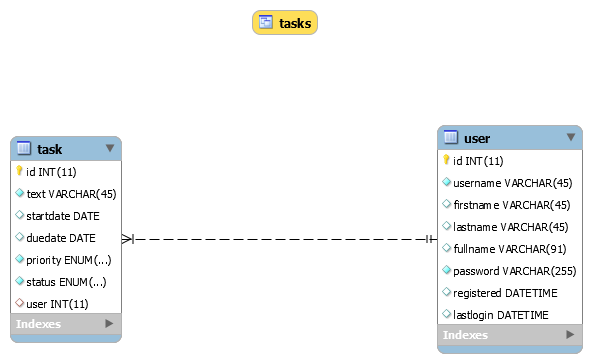
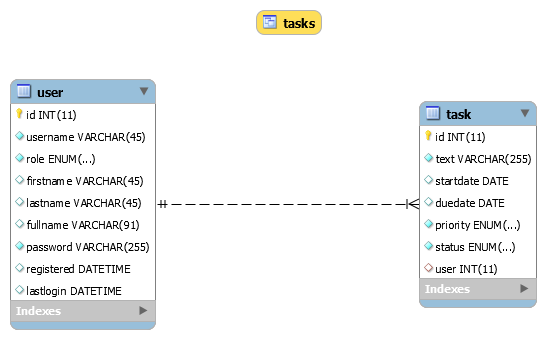
add support for both database designs

Changed region(s): [[0.0, 0.236, 0.9963, 1.0], [0.4048, 0.0295, 0.5916, 0.118]]

diff --git a/todo-api/routes/task.js b/todo-api/routes/task.js
@@ -5,48 +5,83 @@ const knexconf = require('../knexconf')
 const knex = require('knex')(knexconf)
 const auth = require('../auth');
 
+async function getNumberOfTables() {
+  return await knex.raw('SHOW TABLES')
+    .then(results => results[0].length)
+}
+async function getForeignKey(table, value) {
+  return await knex(table)
+    .where(table, value)
+    .then(data => data[0].id)
+}
+async function getEnunValues(field) {
+  var results = await knex.raw(`SHOW COLUMNS FROM task LIKE "${field}"`)
+  results = results[0][0].Type.replace(/enum|\(|\)|\'/g,'').split(',')
+  return results.map((element,index) => {
+    var obj = {}
+    obj['id'] = index
+    obj[field] = element
+    return obj
+  }); 
+}
+
 // read view tasks
 task.get('/task', auth.isLoggedIn, async (req, res) =>{
-  let results = await knex('tasks')
+  var results = await knex('tasks')
   res.json(results)
 })
 
 // read tasks assigned to a certain user
 task.get('/task/getByUser/:kuser', auth.isLoggedIn, async (req, res) =>{
-  let results = await knex('tasks')
-                        .where('kuser', req.params.kuser)
+  var results
+  var user = await knex('user')
+    .where('id', req.params.kuser)
+    .then(data => data[0])
+  if (user && user.role === 'admin') {
+    results = await knex('tasks')
+  } else {
+    results = await knex('tasks')
+      .where('kuser', req.params.kuser)
+  }
   res.json(results)
 })
 
 // create a task via view tasks
 task.post('/task', auth.isLoggedIn, async (req, res) =>{
+  var text = req.body.text
+  var startdate = req.body.startdate
+  var duedate = req.body.duedate
+  var user = req.body.kuser
+  var priority = req.body.priority
+  var status = req.body.status
+  if (await getNumberOfTables() > 3) {
+    priority = await getForeignKey('priority', req.body.priority)
+    status = await getForeignKey('status', req.body.status)
+  }
   try {
-    let results = await knex('tasks')
-                        .insert({
-                          text: req.body.text,
-                          startdate: req.body.startdate,
-                          duedate: req.body.duedate,
-                          priority: req.body.priority, 
-                          status: req.body.status, 
-                          kuser: req.body.kuser
-                        })
+    var results = await knex('task')
+                        .insert({text, startdate, duedate, priority, status, user})
     res.json(results)
   } catch (err) {
-    res.status(200).json(err)
+    res.status(500).json(err)
   }
 })
 
 // update a task via view tasks
 task.put('/task/:id', auth.isLoggedIn, async (req, res) =>{
+  var text = req.body.text
+  var startdate = req.body.startdate
+  var duedate = req.body.duedate
+  var user = req.body.kuser
+  var priority = req.body.priority
+  var status = req.body.status
+  if (await getNumberOfTables() > 3) {
+    priority = await getForeignKey('priority', req.body.priority)
+    status = await getForeignKey('status', req.body.status)
+  }
   try {
-    let results = await knex('tasks')
-                        .update({
-                          text: req.body.text,
-                          startdate: req.body.startdate,
-                          duedate: req.body.duedate,
-                          priority: req.body.priority,
-                          status: req.body.status, 
-                          kuser: req.body.kuser})
+    var results = await knex('task')
+                        .update({text, startdate, duedate, priority, status, user})
                         .where('id', req.params.id)
     res.json(results)
   } catch (err) {
@@ -56,29 +91,33 @@ task.put('/task/:id', auth.isLoggedIn, async (req, res) =>{
 
 // delete task in table task
 task.delete('/task/:id', auth.isLoggedIn, async (req, res) =>{
-  let results = await knex('task')
+  var results = await knex('task')
                       .where('id', req.params.id)
                       .del()
   res.json(results)
 })
 
-// read the  priorities
+// read the priorities
 task.get('/task/priority', auth.isLoggedIn, async (req, res) =>{
-  let results = await knex.raw('SHOW COLUMNS FROM task LIKE "priority"')
-  results = results[0][0].Type.replace(/enum|\(|\)|\'/g,'').split(',')
-  results = results.map((element,index) => {
-    return {"id":index, "priority":element}
-  });
+  var results 
+  var n = await getNumberOfTables()
+  if (n === 3) { // design with 2 tables and 1 view
+    results = await getEnunValues('priority')
+  } else if (n > 3) {
+    results = await knex('priority')
+  }
   res.json(results)
 })
 
 // read the states
 task.get('/task/state', auth.isLoggedIn, async (req, res) =>{
-  let results = await knex.raw('SHOW COLUMNS FROM task LIKE "status"')
-  results = results[0][0].Type.replace(/enum|\(|\)|\'/g,'').split(',')
-  results = results.map((element,index) => {
-    return {"id":index, "state":element}
-  });
+  var results 
+  var n = await getNumberOfTables()
+  if (n === 3) { // design with 2 tables and 1 view
+    results = await getEnunValues('status')
+  } else if (n > 3) {
+    results = await knex('status')
+  }
   res.json(results)
 })
 

diff --git a/todo-gui/src/views/Tasks.vue b/todo-gui/src/views/Tasks.vue
@@ -24,7 +24,7 @@
                       <v-text-field v-model="editedItem.duedate" label="Fälligkeit"></v-text-field>
                       <v-select :items="priorities" item-text="priority" v-model="editedItem.priority" label="Priorität"> </v-select>
                       <v-select :items="owners" item-text="fullname" v-model="editedItem.userfull" label="Besitzer"> </v-select>
-                      <v-select :items="states" item-text="state" v-model="editedItem.status" label="Status"> </v-select>
+                      <v-select :items="states" item-text="status" v-model="editedItem.status" label="Status"> </v-select>
                     </v-col>
                   </v-row>
                 </v-container>
@@ -121,13 +121,8 @@ export default {
                               .then(results => results.data)
       this.currentUser = this.owners.find(data => data.username === this.username)
       if (this.currentUser !== undefined) {
-        if (this.username === 'admin') {
-          this.records = await axios.get('/api/task')
+        this.records = await axios.get(`/api/task/getByUser/${this.currentUser.id}`)
                                   .then(results => results.data)
-        } else { //normal user
-          this.records = await axios.get(`/api/task/getByUser/${this.currentUser.id}`)
-                                  .then(results => results.data)
-        }
       }
     },
     toggleItem (item) {
@@ -168,7 +163,7 @@ export default {
           } else {
             // remove item from this view because it now belongs to a different user
             this.records.splice(this.editedIndex, 1)
-            alert('Aufgabe wurde ' + this.editedItem.userfull + 'zugewiesen.')
+            alert('Aufgabe wurde ' + this.editedItem.userfull + ' zugewiesen.')
           }
         } else alert(data.sqlMessage)
       } else { // create
@@ -176,7 +171,7 @@ export default {
                               .then(results => results.data[0])
         if (this.currentUser.fullname === this.editedItem.userfull) {
           this.records.push(this.editedItem)
-        } else {alert('Aufgabe wurde ' + this.editedItem.userfull + 'zugewiesen.')}
+        } else {alert('Aufgabe wurde ' + this.editedItem.userfull + ' zugewiesen.')}
       }
       this.close()
     },

diff --git a/todo-gui/src/App.vue b/todo-gui/src/App.vue
@@ -22,8 +22,8 @@
         <v-col align="center" justify="center">
         <div id="nav" style="margin-top:12px">
           <router-link class="router-link" to="/">Home</router-link><span v-if="isAuth"> | </span>
-          <router-link class="router-link" v-if="isAuth" to="/tasks">Tasks</router-link><span v-if="isAuth && username === 'admin'"> | </span>
-          <router-link class="router-link" v-if="isAuth && username === 'admin'" to="/users">Users</router-link>
+          <router-link class="router-link" v-if="isAuth" to="/tasks">Tasks</router-link><span v-if="isAuth && role === 'admin'"> | </span>
+          <router-link class="router-link" v-if="isAuth && role === 'admin'" to="/users">Users</router-link>
         </div>
         </v-col>
         <v-col align="right" justify="right">
@@ -68,7 +68,8 @@ export default {
     return {
         isAuth: '',
         username: '',
-        fullname: ''
+        fullname: '',
+        role: ''
     }
   },
   mounted() {
@@ -82,6 +83,7 @@ export default {
       this.isAuth = this.$store.getters.isLoggedIn
       if (this.isAuth) {
         this.username = this.$store.getters.getUser.username;
+        this.role = this.$store.getters.getUser.role;
         this.fullname = this.$store.getters.getUser.fullname;
       }
     },

diff --git a/todo-gui/src/views/Profile.vue b/todo-gui/src/views/Profile.vue
@@ -13,6 +13,7 @@
         <tbody>
             <tr><td>Benutzername:</td><td colspan=2>{{ username }}</td></tr>
             <tr><td>Name:</td><td colspan=2>{{ name }}</td></tr>
+            <tr><td>Rolle:</td><td colspan=2>{{ role }}</td></tr>
             <tr><td>Benutzer ID:</td><td colspan=2>{{ id }}</td></tr>
             <tr><td>Passwort Hash:</td><td>{{ password }}</td><td><router-link to="/passwd">Passwort ändern</router-link></td></tr>
             <tr><td>Registriert:</td><td colspan=2>{{ formatDate(registered) }}</td></tr>
@@ -49,6 +50,7 @@ export default {
     return {
       id: '',
       name: '',
+      role: '',
       password: '',
       registered: '',
       lastlogin: '',
@@ -66,6 +68,7 @@ export default {
     if (this.token) {
       this.id = this.$store.getters.getUser.id;
       this.name = this.$store.getters.getUser.fullname;
+      this.role = this.$store.getters.getUser.role;
       this.password = this.$store.getters.getUser.password;
       this.registered = this.$store.getters.getUser.registered;
       this.lastlogin = this.$store.getters.getUser.lastlogin;

diff --git a/todo-gui/src/views/Users.vue b/todo-gui/src/views/Users.vue
@@ -5,6 +5,7 @@
       <template slot="item" slot-scope="props">
         <tr>
           <td class="text-start">{{ props.item.username }}</td>
+          <td class="text-start">{{ props.item.role }}</td>
           <td class="text-start">{{ props.item.fullname }}</td>
           <td class="text-start">{{ formatDate(props.item.registered) }}</td>
           <td class="text-start">{{ formatDate(props.item.lastlogin) }}</td>
@@ -29,6 +30,7 @@ export default {
   data: () => ({
     headers: [
       { text: 'Benutzername', value: 'username'},
+      { text: 'Rolle', value: 'role'},
       { text: 'Name', value: 'fullname'},
       { text: 'Registriert', value: 'registered'},
       { text: 'Letztes Login', value: 'lastlogin'},

diff --git a/todo-db/README.md b/todo-db/README.md
@@ -1,4 +1,4 @@
 # Database
 It is assumed that you use MySQL 8 database.
 
-Here you will only find the SQL DDL statements to create such a database. The GUI only supports the **design with ENUM**.
+Here you will only find the SQL DDL statements to create such a database. The API and GUI support both designs.
